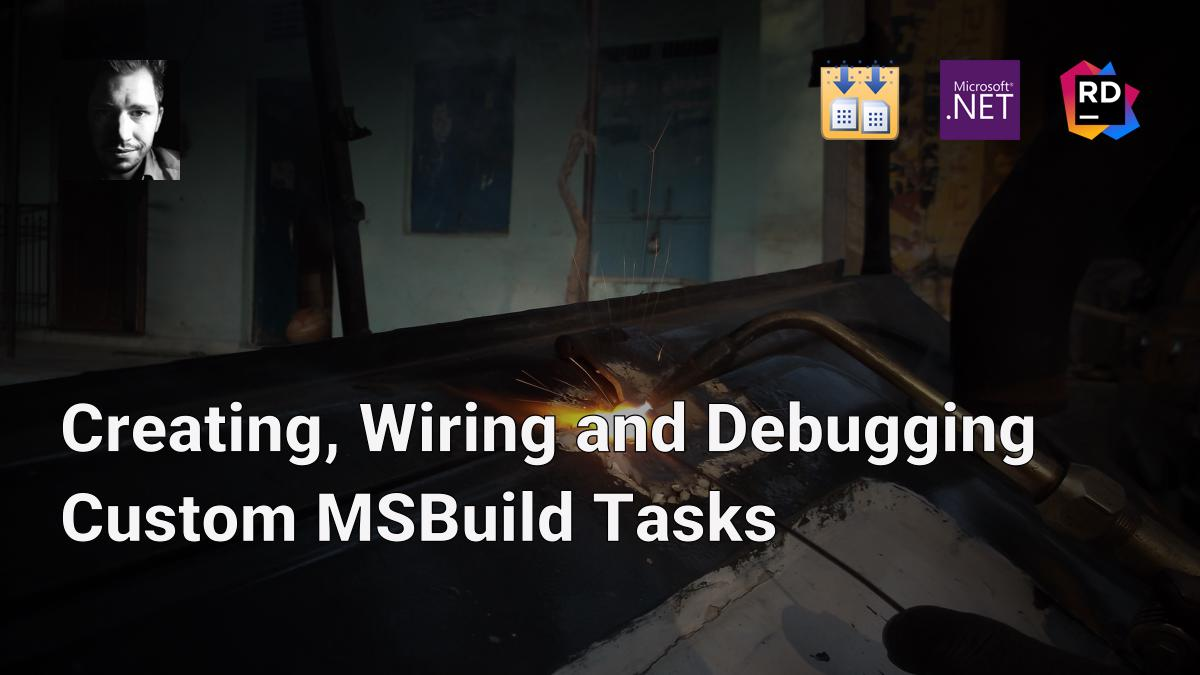
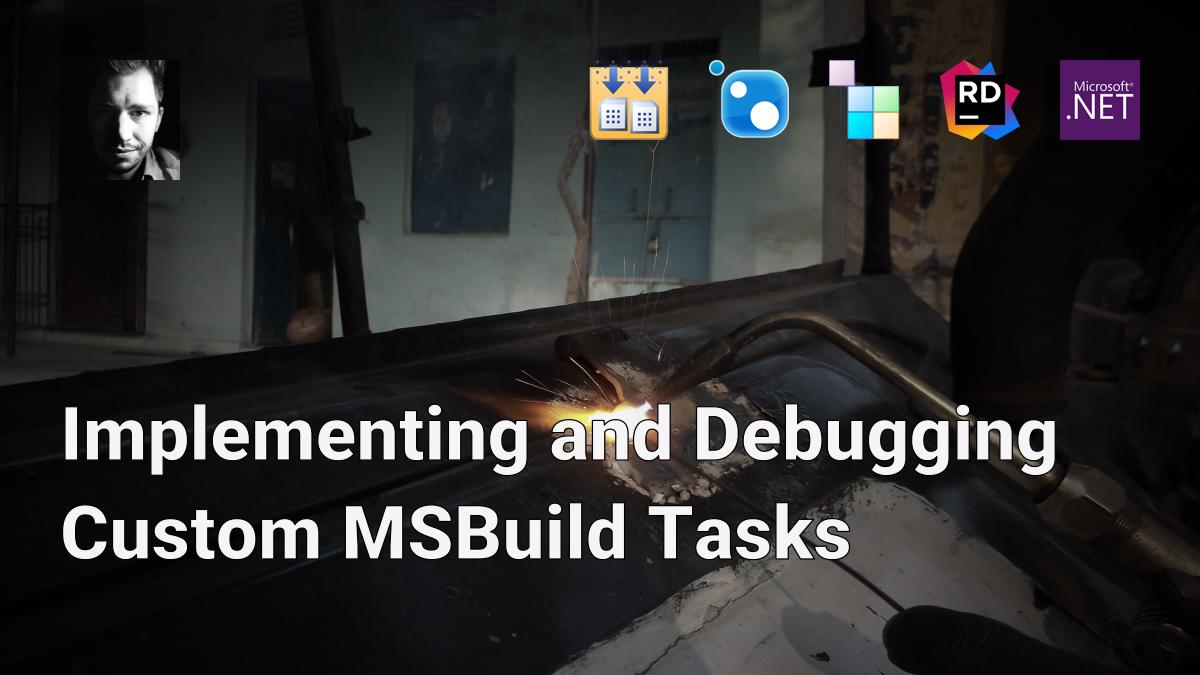
asd

diff --git a/_drafts/2020-07-02-msbuild-tasks.md b/_drafts/2020-07-02-msbuild-tasks.md
@@ -54,6 +54,11 @@ window.Lazyload.js(SOURCES.jquery, function() {
   }
 </style>
 
+***TL;DR: ***
+
+- Integrating with MSBuild is inevitable
+- Some hurdles for creating NuGet package
+
 <!-- TODO: or even right from the start -->
 At some point, much of the tooling around .NET projects ends up having to integrate with MSBuild, the _low-level_ build system in the .NET ecosystem. Examples of these tools are:
 
@@ -203,8 +208,7 @@ In the `.props` file, we're defining a property `CustomTasksDirectory` that poin
 Note that we add a condition to check if `EnableCustomTasks` is enabled (Line 9). This little trick allows us to **easily opt-out from attaching the task**. Faulty MSBuild tasks have a high chance to completely break a referencing project and to cause confusion about where the error originates from:
 
 <div class="tweet" tweetID="1072394313592647684">I really try to like @JetBrainsRider - but I just don’t have enough time for it...</div>
-
-Before we can finally pack our package, we need to run `dotnet publish` on the tasks project for both target frameworks:
+  pack our package, we need to run `dotnet publish` on the tasks project for both target frameworks:
 
 {% highlight batch linenos %}
 dotnet publish --framework netcoreapp2.1
@@ -228,29 +232,17 @@ On pitfall for me was that loading the MSBuild task is not subject to [NuGet's s
 
 ## Debugging a Task
 
-Let's get to the most interesting part of how we can **effectively debug the implementation** of our MSBuild task:
+Let's get to the most interesting part of how we can **effectively debug MSBuild integration** in a test project:
 
 <div class="tweet" tweetID="1183638078767927297">Is there a decent workflow for writing MSBuild tasks? Finally looking at adding a proper MSBuild task to FunctionMonkey (it currently uses a console app - that'll stay too). Writing it seems straightforward.... debugging it looks like it might be painful.</div>
 
 Indeed, with the **console application approach**, things are rather easy. <!-- TODO: INPUT DATA --> On Windows we can call `System.Diagnostics.Debugger.Launch()`, which **fires up the Just-In-Time Debugger** so that we can attach to the process. By default, this will use the [Visual Studio JIT Debugger](https://docs.microsoft.com/en-us/visualstudio/debugger/debug-using-the-just-in-time-debugger?view=vs-2019), but we can also [configure JetBrains Rider as the Just-In-Time Debugger](https://blog.jetbrains.com/dotnet/2019/04/16/edit-continue-just-time-debugging-debugger-improvements-rider-2019-1/). As of now, this strategy is [not supported on Linux/macOS](https://github.com/dotnet/runtime/issues/38427). The best workaround I've found is to call `SpinWait.SpinUntil(() => Debugger.IsAttached)`, which will wait until the debugger is actually attached. This also has the benefit that we don't break on the `Debugger.Launch` statement.
 
-Taking the **custom MSBuild task way**, we have a bit more footwork to do. In contrast to using `PackageReference` with the final package, the`.targets` and `.props` files **aren't automatically imported** when using a `ProjectReference`. We could create an actual package, but that has the unpleasant side-effect of getting persisted in our global NuGet cache:
+Taking the **custom MSBuild task approach**, we have a bit more footwork to do. In contrast to using `PackageReference`, the`.targets` and `.props` files **aren't automatically imported** when using a `ProjectReference` in another test project. We could create an actual package, but that has the unpleasant side-effect of getting persisted in our global NuGet cache:
 
 <div class="tweet" tweetID="965325828455321600">I want to point to to a nupckg file directly ideally. The problem with local feeds is that packages get cached.</div>
 
-Deleting from the cache, or incrementing versions – all those are rather poor workarounds compared to a possible [better development and testing experience](https://github.com/NuGet/Home/issues/6579) for NuGet packages. So lets dismiss this idea.
-
-As a first step to enable first-class debugging, we will call `dotnet publish --framework netcoreapp2.1` to **publish the MSBuildTasks project**. When using JetBrains Rider, the most efficient way is to create a [run configuration](https://www.jetbrains.com/help/rider/Run_Debug_Configuration.html):
-
-![Publishing MSBuild Tasks via Run Configuration](/assets/images/2020-02-11-implementing-wiring-and-debugging-custom-msbuild-tasks/run-configuration-publish.png){:width="750px" .shadow}
-
-In the second step, we call `MSBuild.dll /t:Clean;Restore;Pack /p:NukeMSBuildIntegration=True` to **invoke MSBuild on the project** that we want to test our MSBuild task with:
-
-![Running MSBuild Tasks via Run Configuration](/assets/images/2020-02-11-implementing-wiring-and-debugging-custom-msbuild-tasks/run-configuration-run.png){:width="750px" .shadow}
-
-![Running MSBuild Tasks via Run Configuration](/assets/images/2020-02-11-implementing-wiring-and-debugging-custom-msbuild-tasks/run-configuration-list.png){:width="750px" .shadow}
-
-Manually reference props/targets files, as they won't be imported when referencing as ProjectReference. Packing each time is also possible, but cumbersome:
+Deleting from the cache, or incrementing versions – all those are rather poor workarounds compared to a possible [better development and testing experience](https://github.com/NuGet/Home/issues/6579) for NuGet packages. A better alternative is to **manually wire up our test project**:
 
 {% highlight xml linenos %}
 <Project Sdk="Microsoft.NET.Sdk">
@@ -273,6 +265,26 @@ Manually reference props/targets files, as they won't be imported when referenci
 </Project>
 {% endhighlight %}
 
+The **`.props` file should be imported at the very beginning** of the project file (Line 3), allowing to set default property values. Meanwhile, the **`.targets` file should be important at the very end** of the project file (Line 16), to ensure the task is run with the relevant input values. Here, we will also utilize our trick from the previous section, and set a default for `EnableCustomTasks` (Line 8), which can either be overridden from the outside (hence the condition) or manually changed to **test behavior in the IDE**. We should also not forget about adjusting the `CustomTasksDirectory` property to **point to the local version** of our task.
+
+With [JetBrains Rider](https://jetbrains.com/rider) we can use [run configurations](https://www.jetbrains.com/help/rider/Run_Debug_Configuration.html) to make this process more convenient. In the first configuration `Publish CustomTasks`, we will **publish the MSBuild task project**:
+
+![Publishing MSBuild Tasks via Run Configuration](/assets/images/2020-02-11-implementing-wiring-and-debugging-custom-msbuild-tasks/run-configuration-publish.png){:width="750px" .shadow}
+
+In a second configuration `Run CustomTasks` we will depend on the first one, and also call `MSBuild.dll /t:Clean;Restore;Pack /p:NukeMSBuildIntegration=True` to **invoke MSBuild on the test project**:
+
+![Running MSBuild Tasks via Run Configuration](/assets/images/2020-02-11-implementing-wiring-and-debugging-custom-msbuild-tasks/run-configuration-run.png){:width="750px" .shadow}
+
+Note that this is the place when we need to override the `EnableCustomTasks` property to execute our task. Also we should **make an educated choice of which targets should be invoked**. If our task integrates with the `Restore` target, then we really need to execute `Clean` before, because otherwise it may be skipped for consecutive builds.
+
+Now that we're all set up, we can use the `Run CustomTasks` configuration to finally debug our task implementation:
+
+![Running MSBuild Tasks via Run Configuration](/assets/images/2020-02-11-implementing-wiring-and-debugging-custom-msbuild-tasks/run-configuration-list.png){:width="750px" .shadow}
+
+## Troubleshooting MSBuild
+
+Sooner or later we will run into issues with our MSBuild integration, especially regarding the `.props` and `.targets` files. We might reference a wrong property, forget about escaping, or just have a typo in our identifiers. The _Project Properties_ dialog is a good place to start investigations and to see **evaluated properties and imports** for a project file:
+
 <div class="swiper swiper-demo swiper-demo--image" style="max-width: 550px">
   <div class="swiper__wrapper">
     <div class="swiper__slide"><img class="lightbox-ignore" src="../../../../assets/images/2020-02-11-implementing-wiring-and-debugging-custom-msbuild-tasks/project-properties.png"/></div>
@@ -282,10 +294,27 @@ Manually reference props/targets files, as they won't be imported when referenci
   <div class="swiper__button swiper__button--next fas fa-chevron-right"></div>
 </div>
 
+Using the common keyboard shortcut, we can also easily **copy values from grid cells**. If we need even more insight, then the [MSBuild Structured Log Viewer](https://msbuildlog.com/) created by [Kirill Osenkov](https://twitter.com/KirillOsenkov) can be of great help:
+
+<div class="tweet" tweetID="1284026601416654848">2 years ago I rewrote our entire build pipeline in mostly msbuild. Once I learned about structured log viewer my estimations were cut in half. MSBuild has become a lot more of a regular programming task since then.</div>
+
+The Structured Log Viewer operates on [binary log files](https://docs.microsoft.com/visualstudio/msbuild/obtaining-build-logs-with-msbuild#save-a-binary-log), which can be created by passing `/binaryLogger:output.binlog` to the MSBuild invocation. Binary log files provide the **highest level of completeness and verbosity**, even compared to most-diagnostic level for text logs. Imports of files and execution of targets are **hierarchically visualized using a tree view**. Particularly when looking for a suitable target to integrate our own using `BeforeTargets` or `AfterTargets`, we can also view the [flattened temporal order view](https://twitter.com/KirillOsenkov/status/1192209843630665728).
+
+<div class="tweet" tweetID="1192209843630665728">The latest MSBuild Log Viewer adds a new option to display targets in one flat list chronologically, it may be easier to see in which order the targets actually ran:</div>
+
+Another benefit is that when testing our task on large projects that imply a time-consuming compilation, we can **replay a single task** without executing all its dependencies:
+
+<div class="tweet" tweetID="1030638751951638529">Soon in MSBuild Structured Log Viewer: run or debug MSBuild tasks by using the exact parameter values from the binlog! "Replay" tasks in isolation outside of the build.</div>
+
+TODO: Rider
+
+## Conclusion
+
+
 
 ## Acknowledgements
 
-I want to add that much of my adventures with MSBuild are only of good nature and happy endings because [Martin Ullrich](https://twitter.com/dasmulli) is such a great source of knowledge:
+I want to add that much of my adventures with MSBuild are only of good nature and happy endings because my friend [Martin Ullrich](https://twitter.com/dasmulli) is such a great source of knowledge:
 
 <div class="tweet" tweetID="1189873542906683392">I think everyone should have a @dasmulli to effectively work with #msbuild. Thank you so much Martin! 👏🏻</div>
 

diff --git a/_drafts/2020-00-00-dev-machine.md b/_drafts/2020-00-00-dev-machine.md
@@ -117,9 +117,9 @@ duti -s com.microsoft.VSCode .csproj all
 
 # Clone Repositories
 git clone git@github.com:matkoch/resharper-plugins ~/code/resharper-plugins
-git clone git@github.com:nuke-build/nuke ~/code/nuke
 git clone git@github.com:matkoch/matkoch.github.io ~/code/blog
-git clone https
+git clone git@github.com:matkoch/thumbnail-generator ~/code/thumbnail-generator
+git clone git@github.com:nuke-build/nuke ~/code/nuke
 dotnet tool install nuke.globaltool --global
 cd ~/code/nuke;              nuke generate-global-solution
 cd ~/code/resharper-plugins; nuke generate-global-solution
